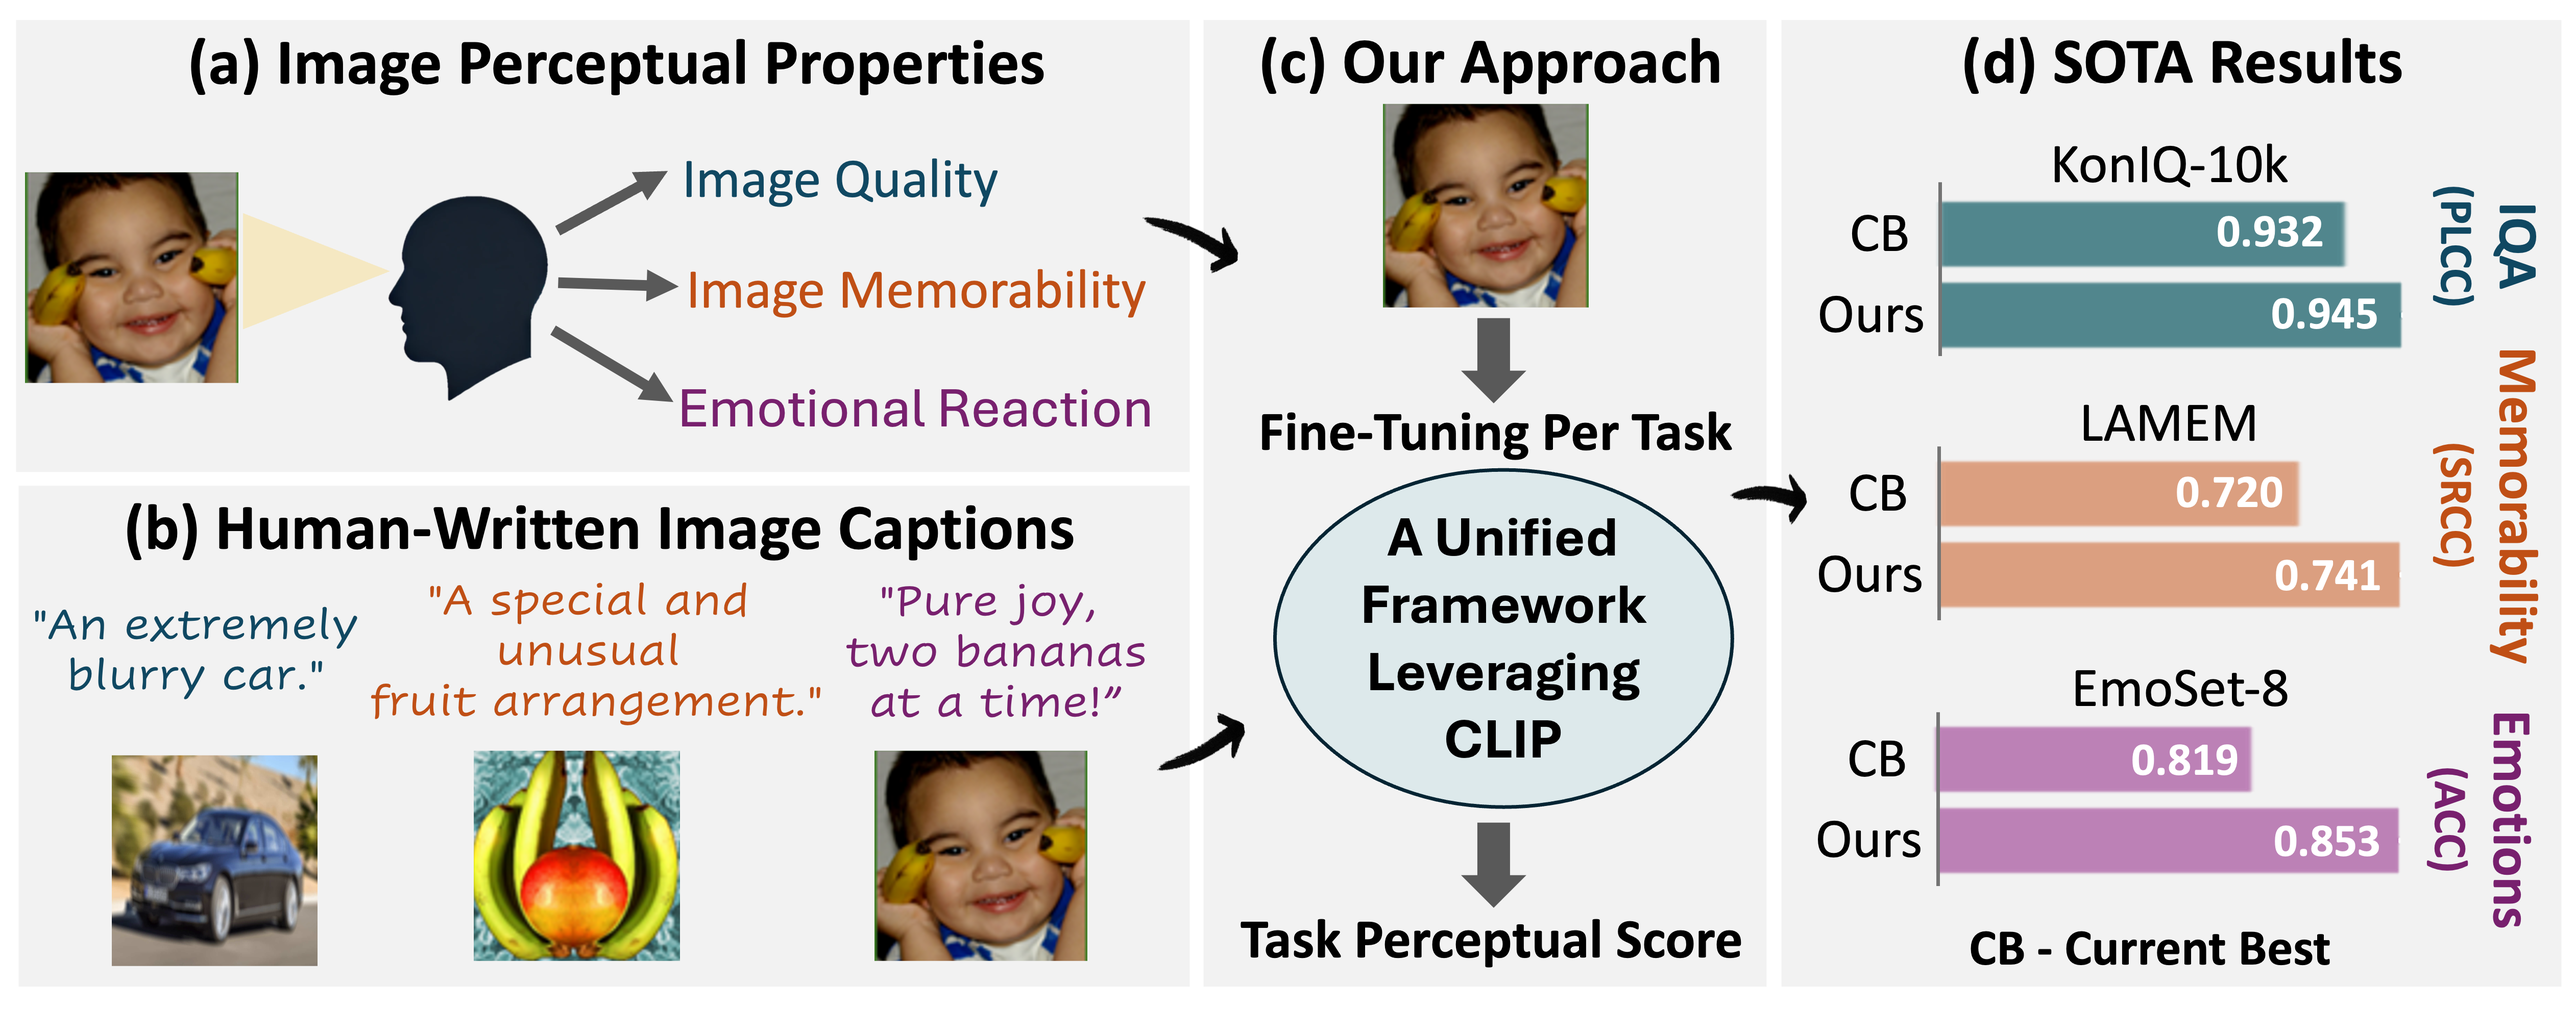
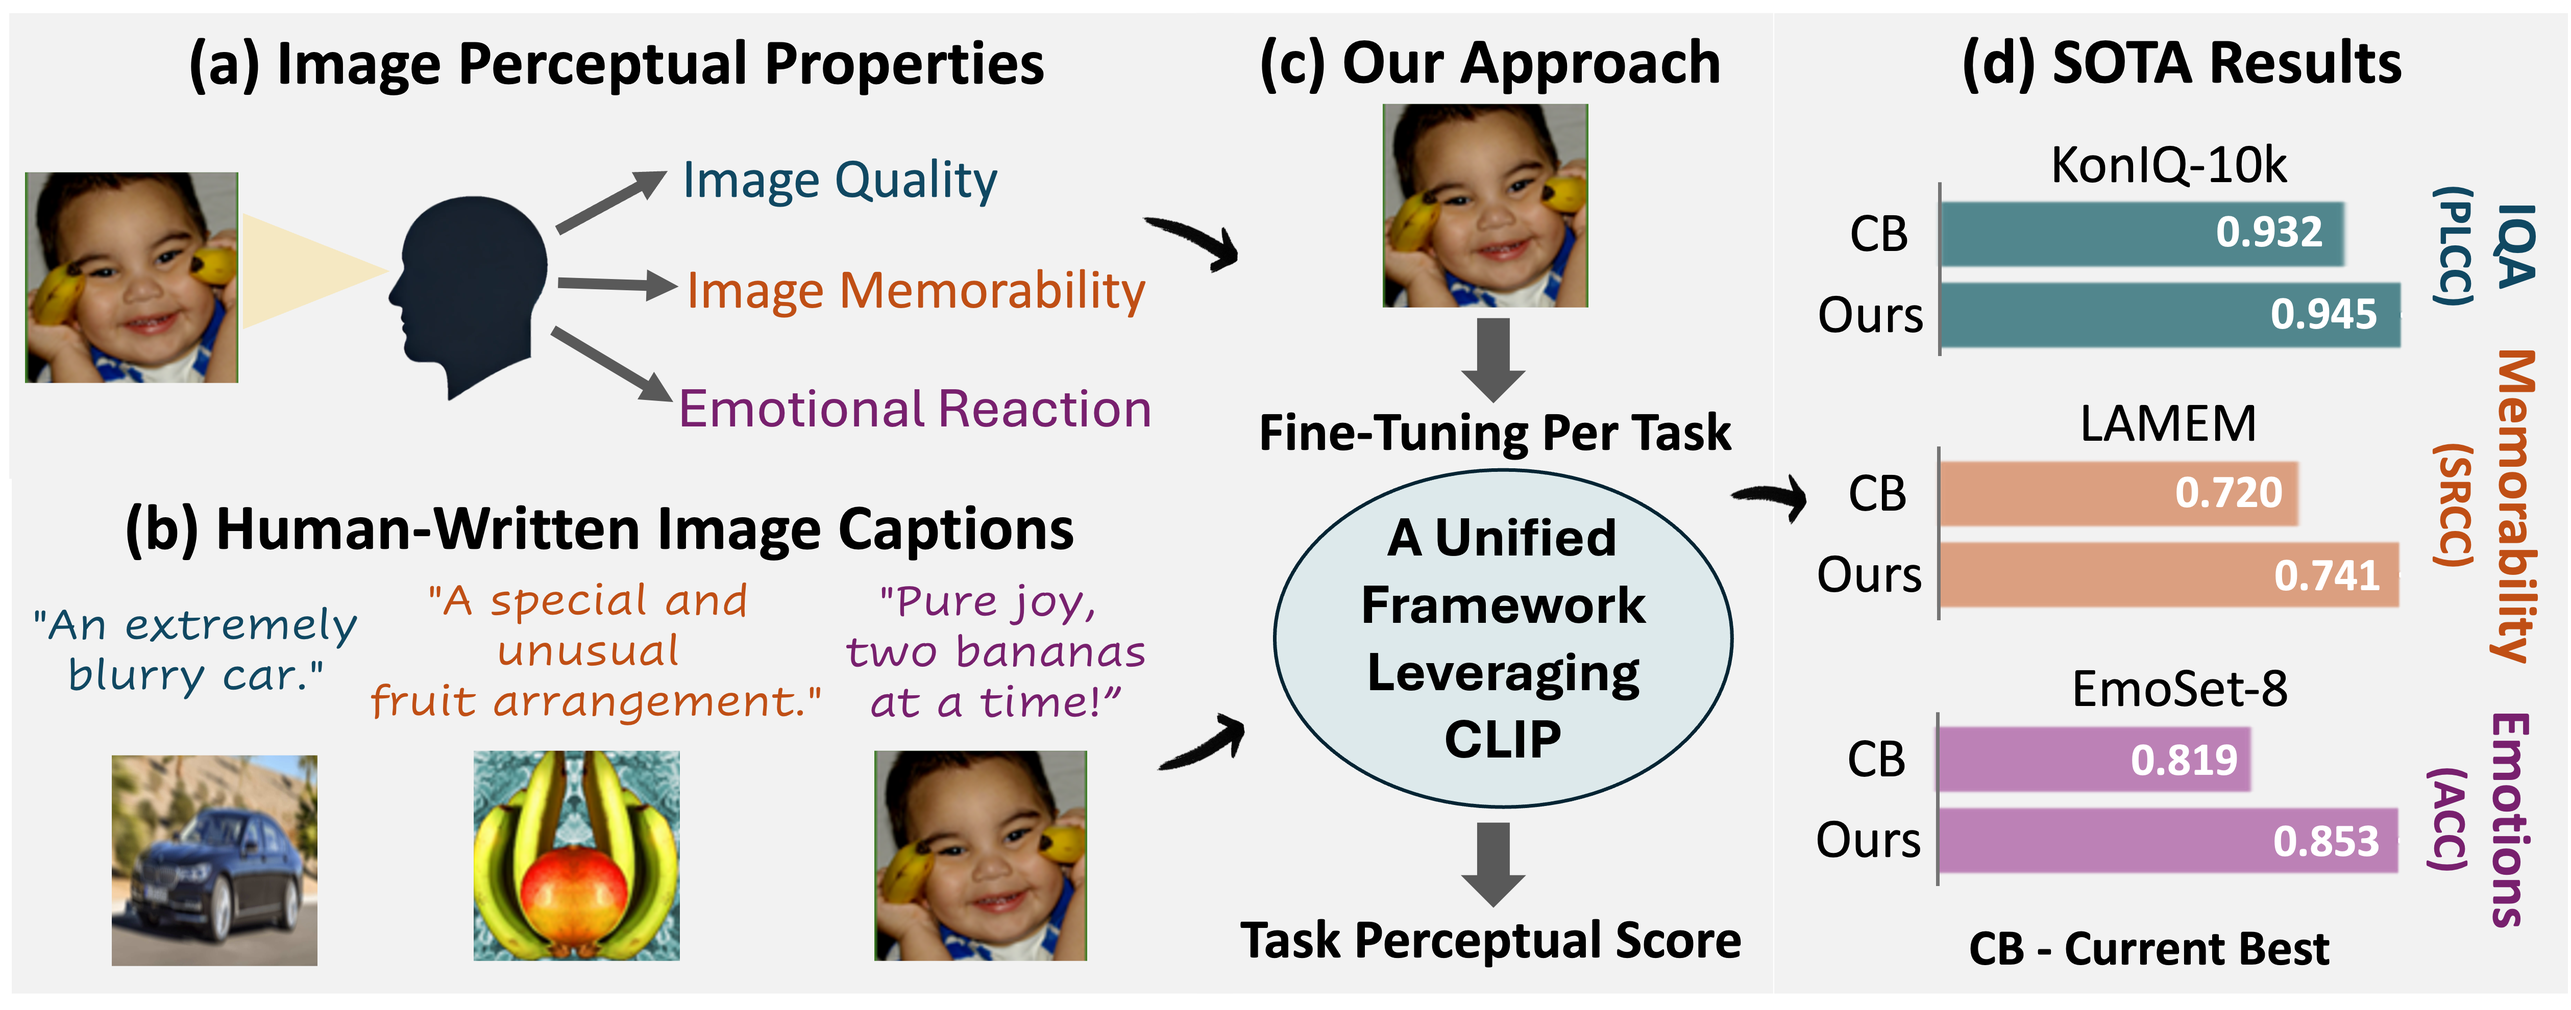
11

diff --git a/index.html b/index.html
@@ -254,7 +254,7 @@
     <br>
 
     <!-- Second Figure: Benchmark Construction Pipeline -->
-    <h3 class="section-title">Unified Framework for Perceptual Tasks</h3>
+    <!-- <h3 class="section-title">Unified Framework for Perceptual Tasks</h3> -->
     <img class="resized-image" src="figures/Architecture.png" alt="Architecture">
     <p class="limited-width">
         Leveraging the CLIP vision encoder, following an MLP head, our architecture maintains a simple, shared structure across diverse perceptual tasks. With lightweight LoRA adaptation, it fine-tunes efficiently for each task independently, effectively exploiting CLIP’s prior perceptual knowledge.
